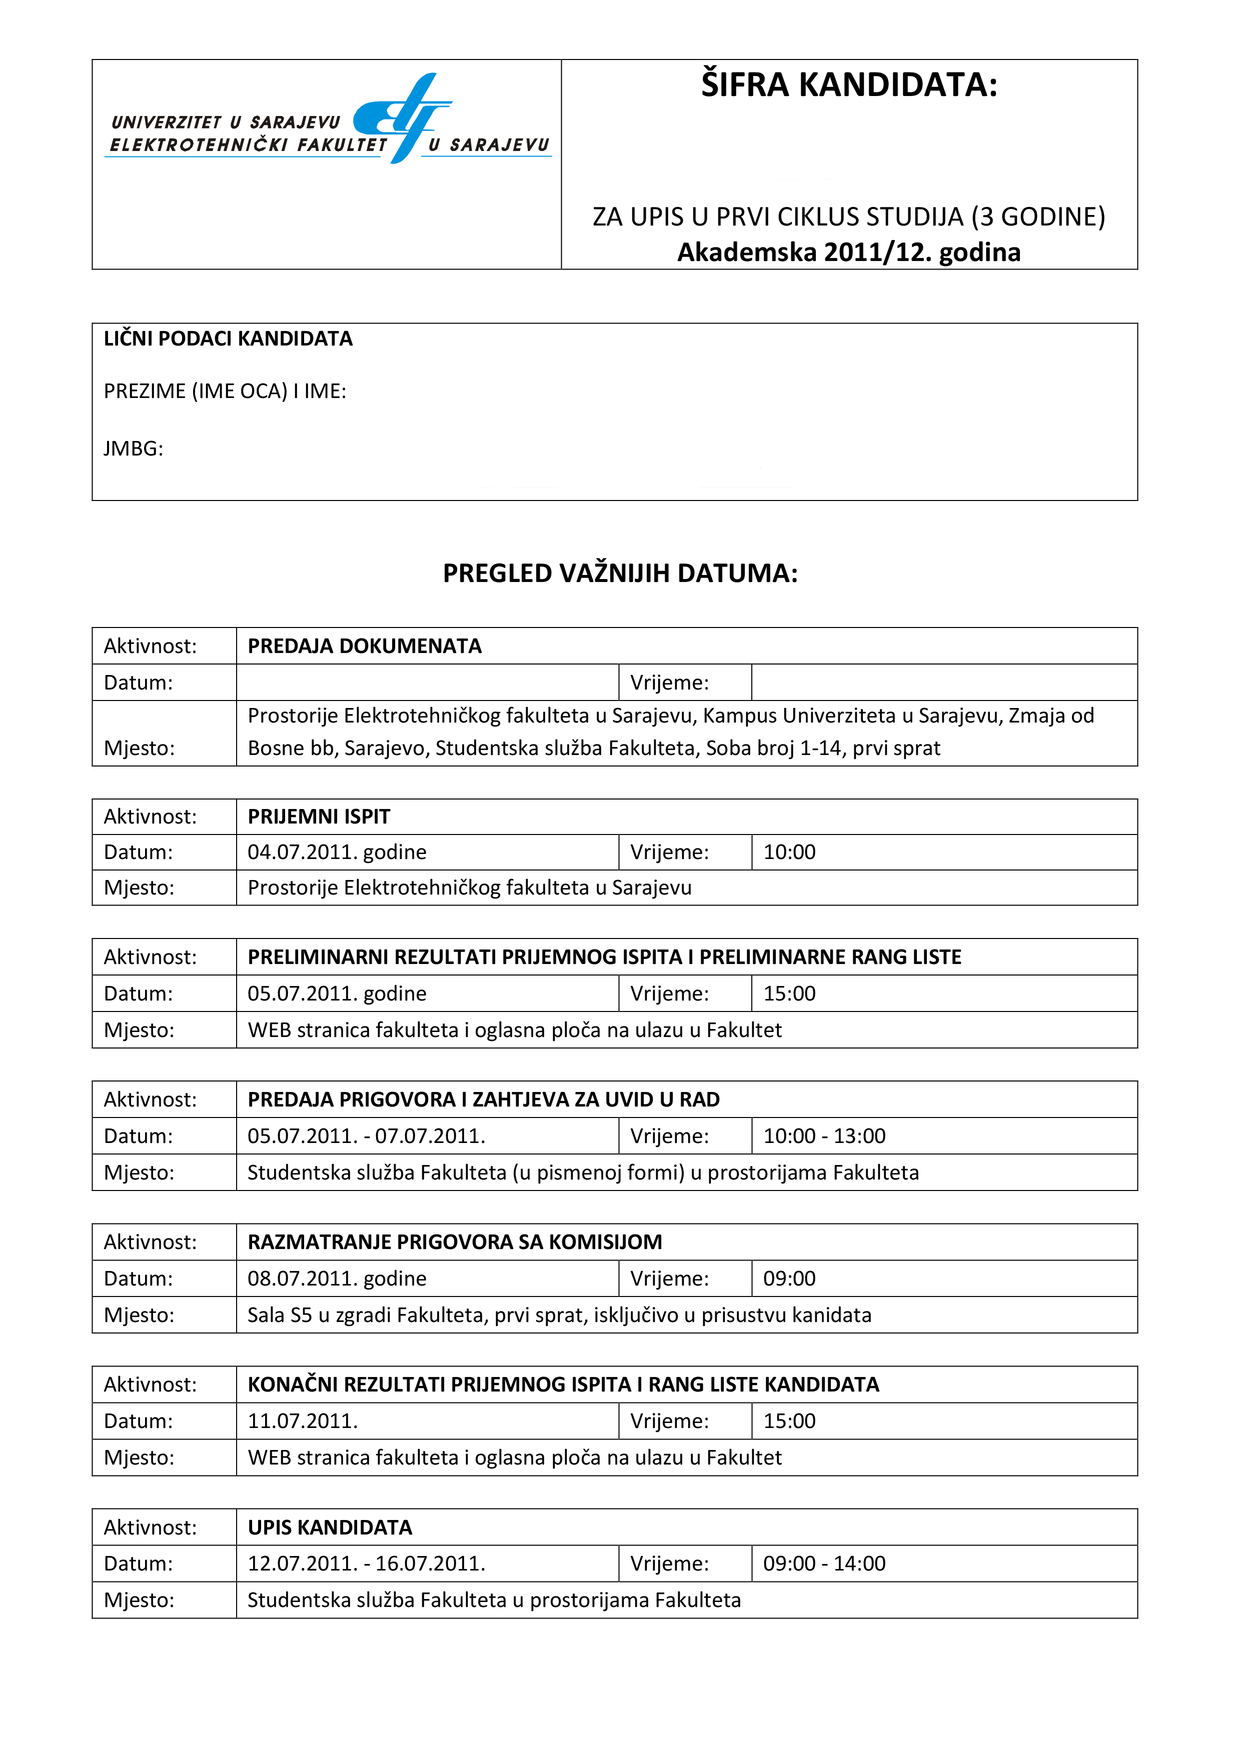
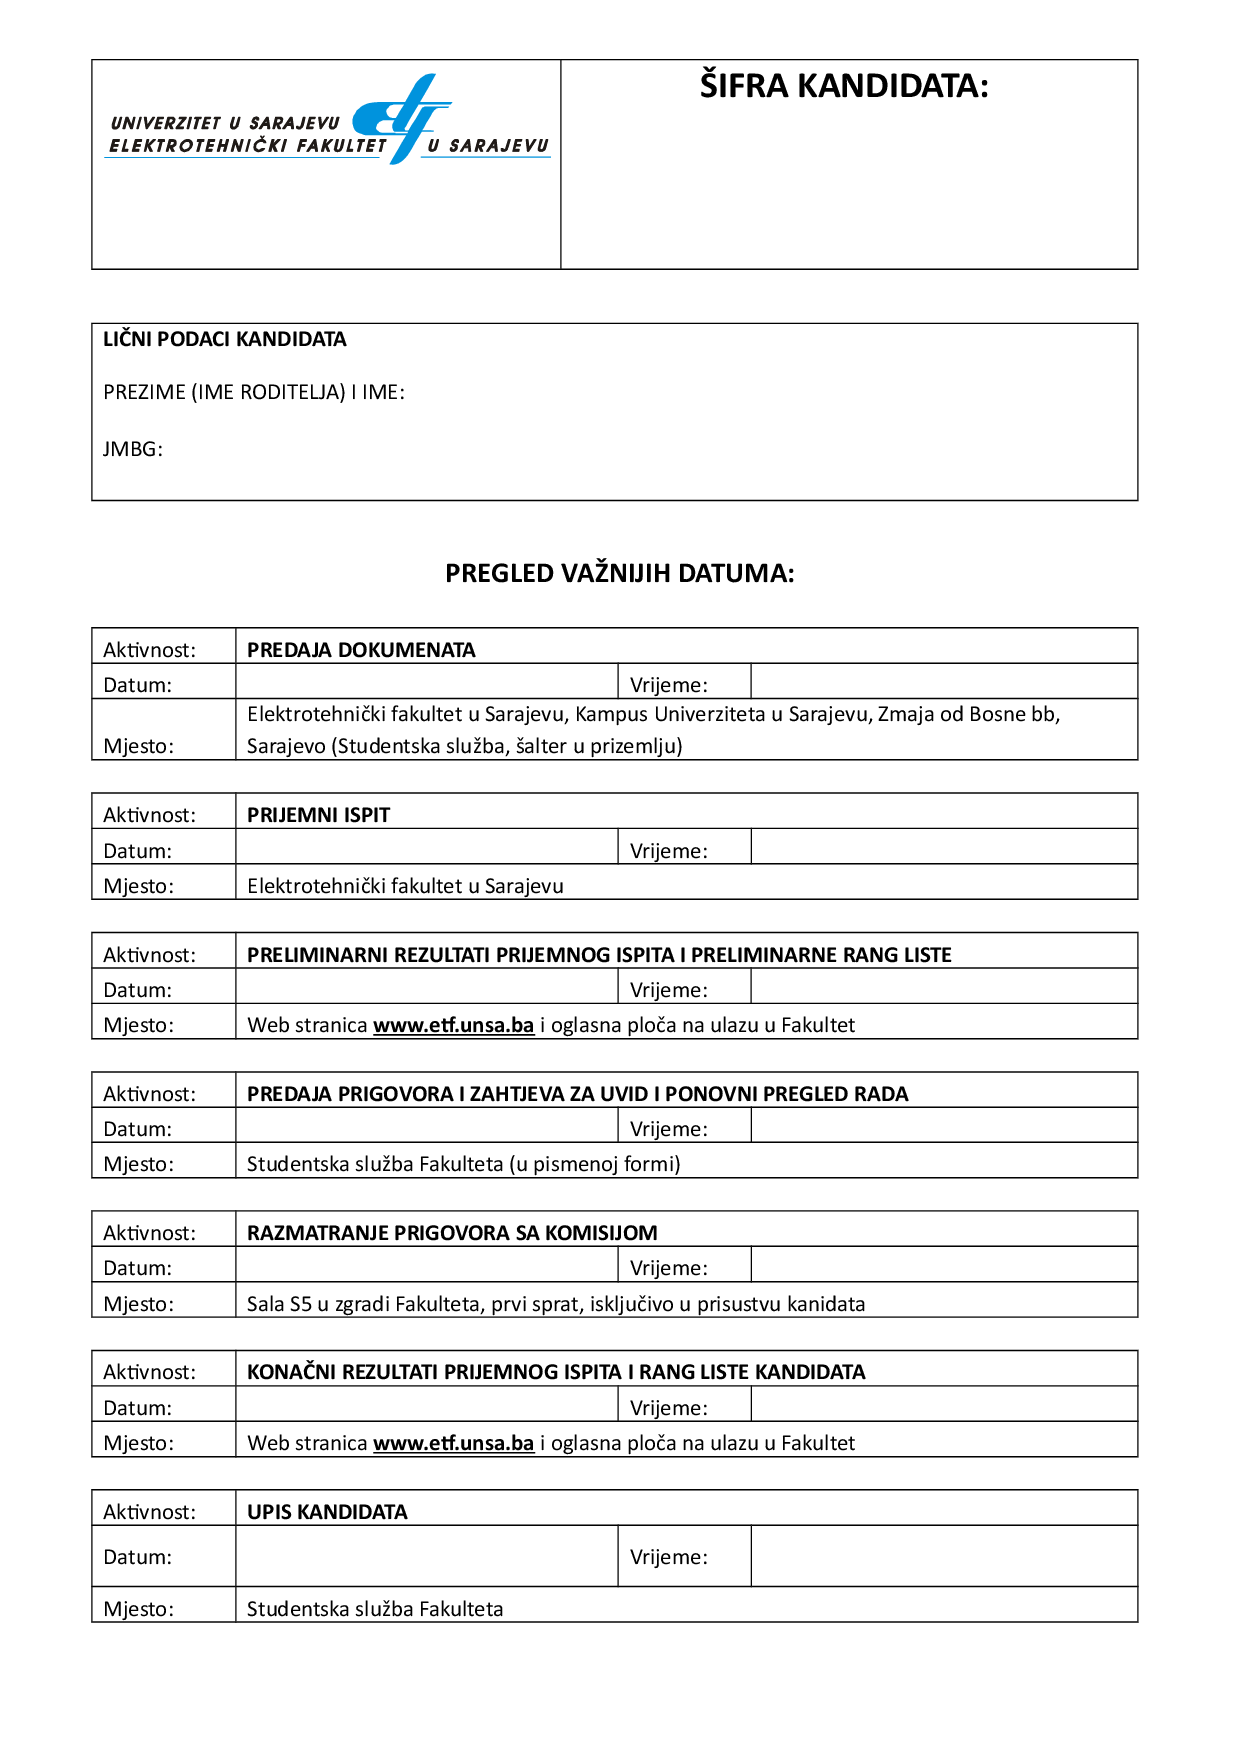
Stavljam blank forme za prijemni umjesto popunjenih

diff --git a/izvjestaj/prijemni_brzi_unos.php b/izvjestaj/prijemni_brzi_unos.php
@@ -100,10 +100,10 @@ $pdf->AddPage();
 
 //	$pdf->Image("static/images/content/150dpi/ETF-Domestic-contract-PGS-ALL-0.png",210,297,0,0,'','','',true,150);
 if ($jezik=="en") {
-	$pdf->Image("static/images/content/150dpi/obrazac_sa_sifrom_kandidata_en_2015.png",0,0,210,0,'','','',true,150); 
+	$pdf->Image("static/images/content/150dpi/obrazac_sa_sifrom_en.png",0,0,210,0,'','','',true,150); 
 	$en_offset = 7;
 } else {
-	$pdf->Image("static/images/content/150dpi/obrazac_sa_sifrom_kandidata_2015.png",0,0,210,0,'','','',true,150); 
+	$pdf->Image("static/images/content/150dpi/obrazac_sa_sifrom.png",0,0,210,0,'','','',true,150); 
 	$en_offset = 0;
 }
 	
